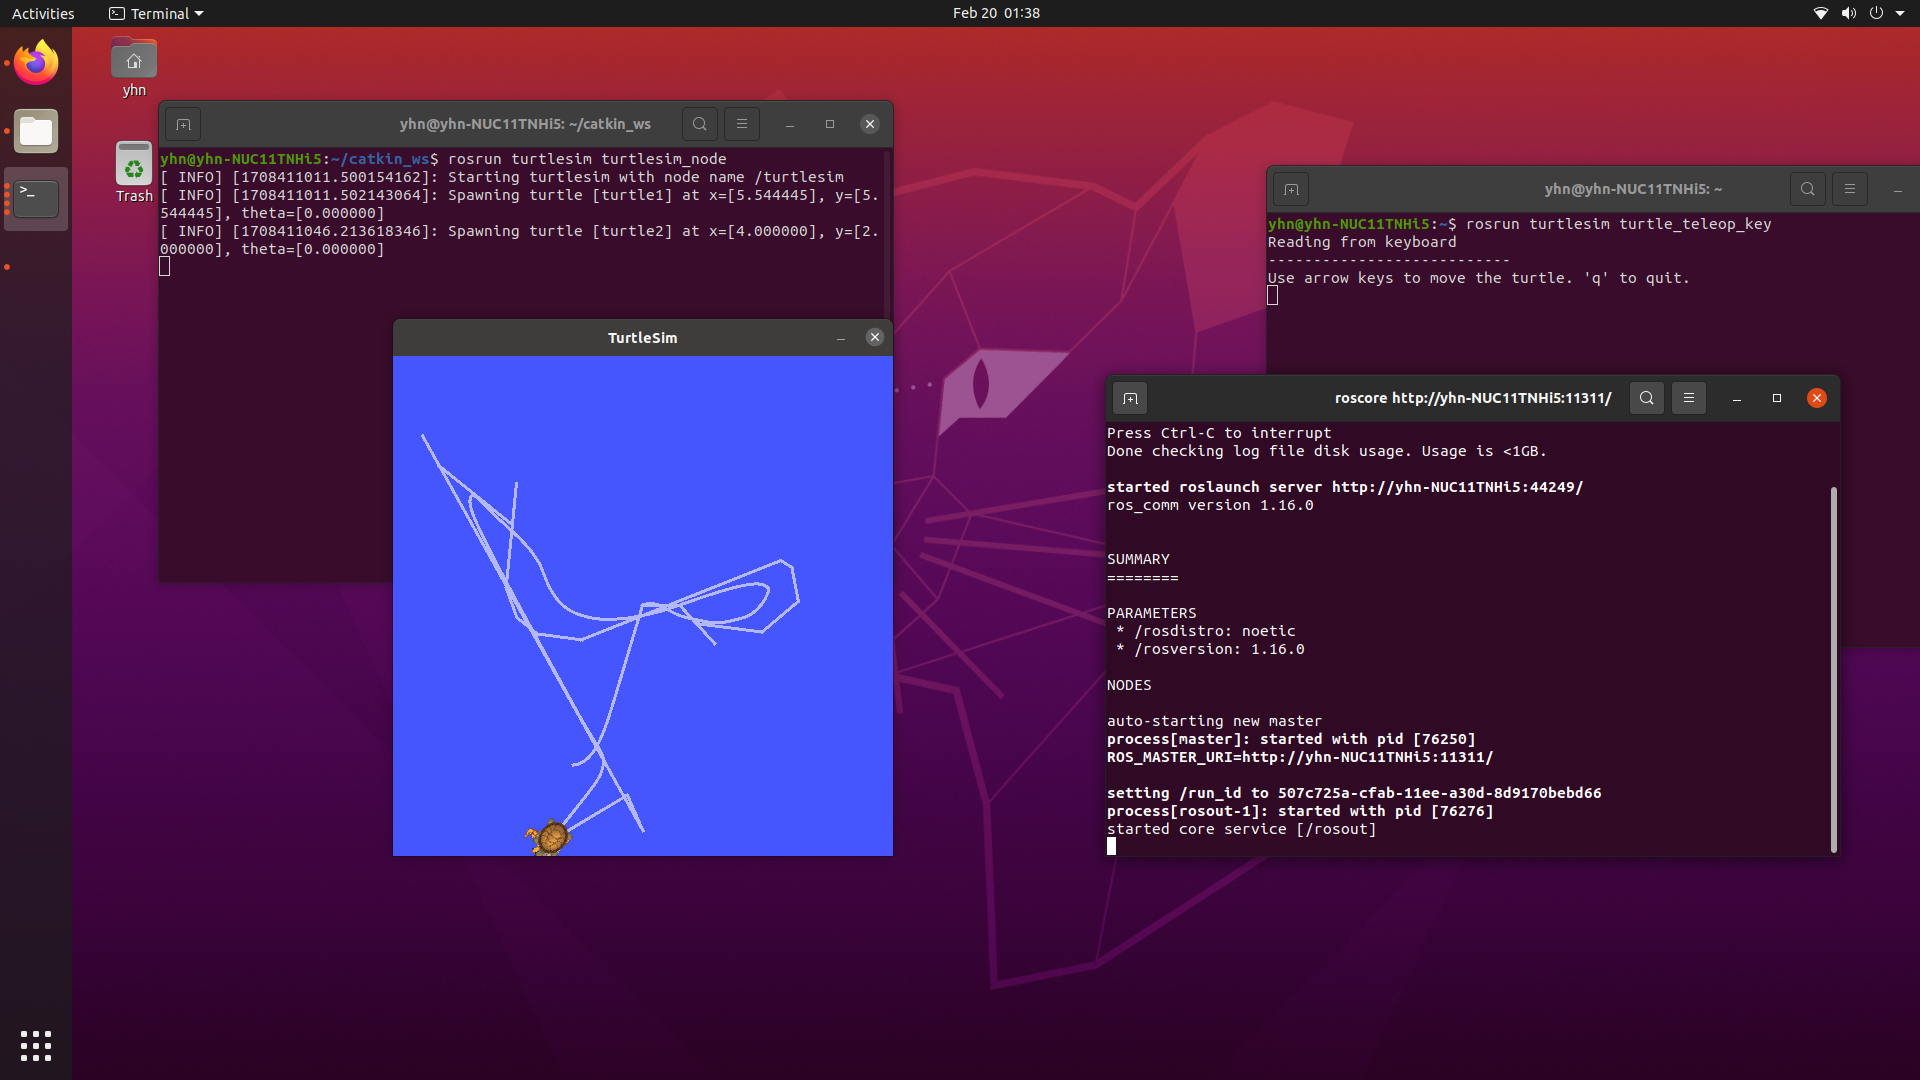
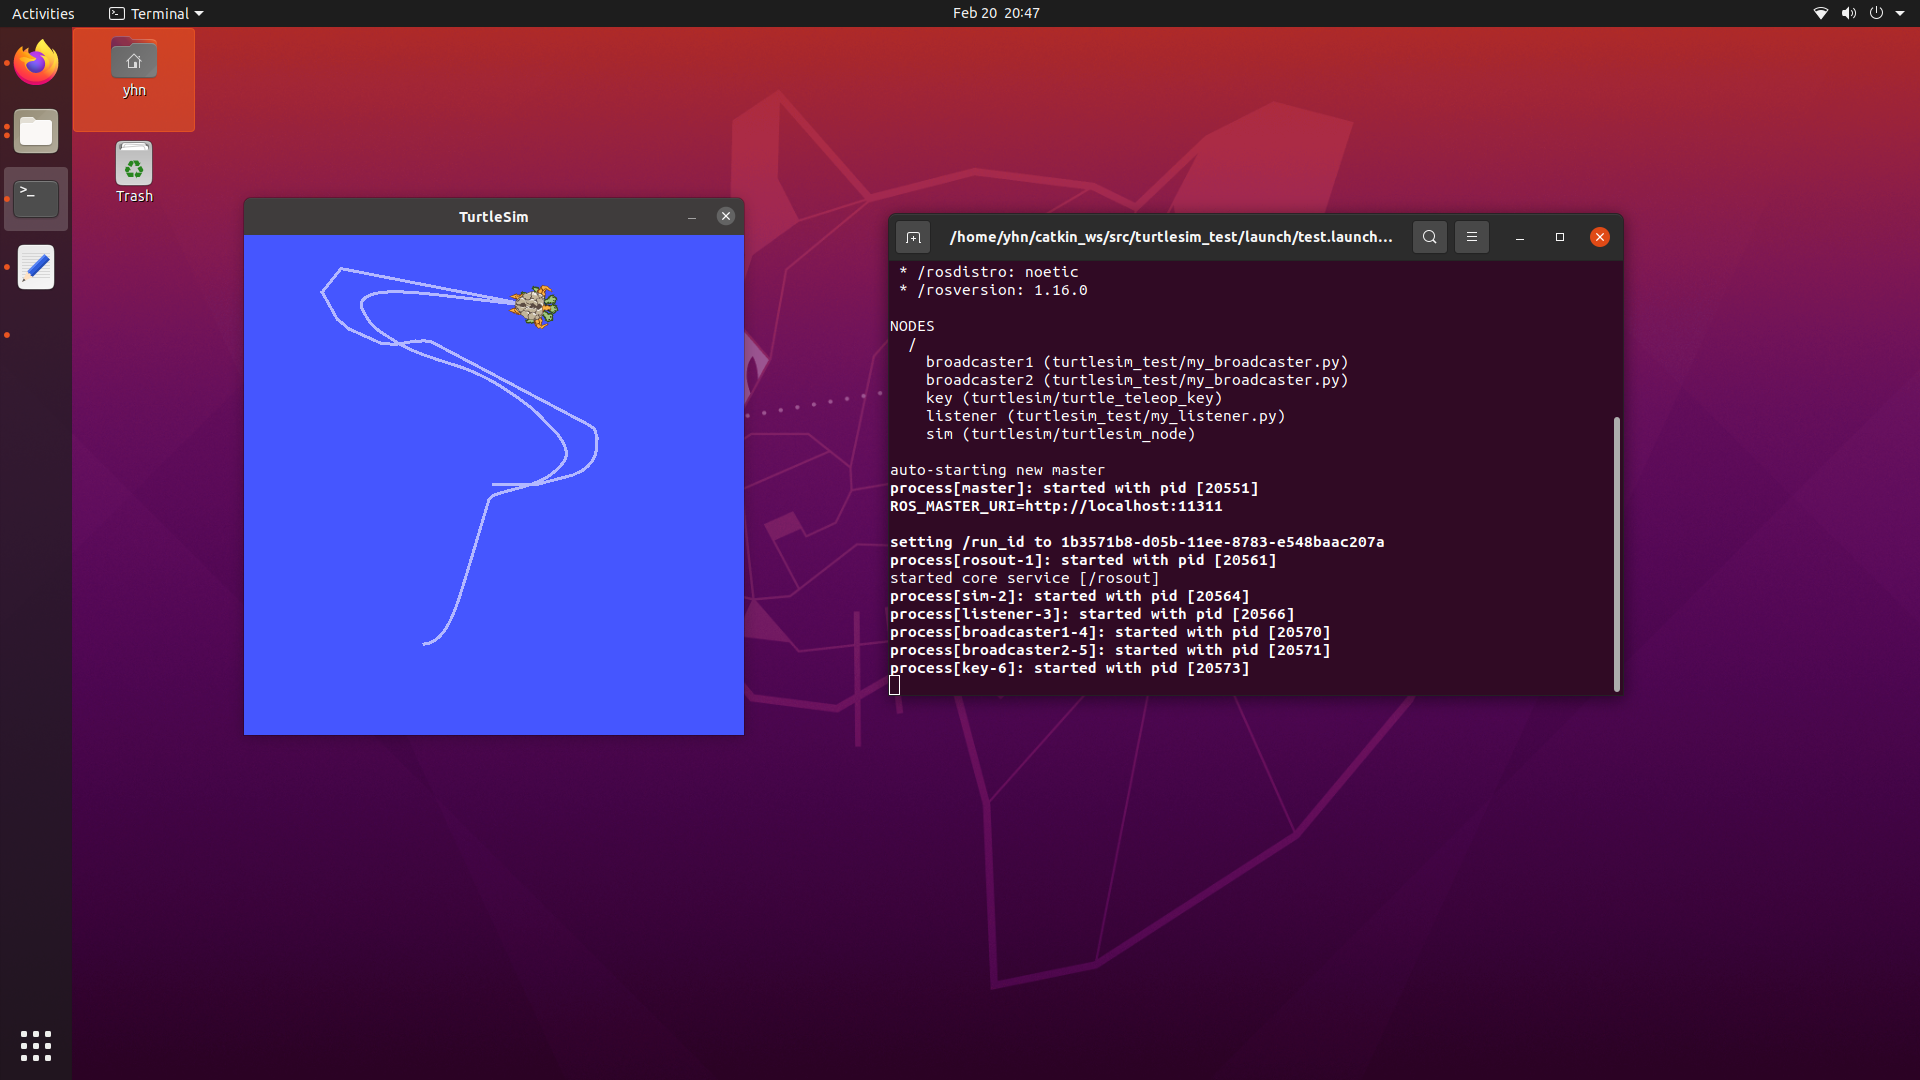
3

diff --git a/scripts/my_listener.py b/scripts/my_listener.py
@@ -5,30 +5,42 @@ import tf
 import geometry_msgs.msg
 import turtlesim.srv
 
+
 if __name__ == '__main__':
+    
+    # 初始化节点
     rospy.init_node('turtle_tf_listener')
-
-    listener = tf.TransformListener()
-
+    
+    # 在(4, 2, 0)创建第二只海龟
     rospy.wait_for_service('spawn')
     spawner = rospy.ServiceProxy('spawn', turtlesim.srv.Spawn)
     spawner(4, 2, 0, 'turtle2')
-
+    
+    # 发布海龟2速度
     turtle_vel = rospy.Publisher('turtle2/cmd_vel', geometry_msgs.msg.Twist,queue_size=1)
-
+    
+    # 创建tf监听器
+    listener = tf.TransformListener()
+    
+    # 循环频率10.0
     rate = rospy.Rate(10.0)
+    
     while not rospy.is_shutdown():
         try:
+            # 查询海龟1和海龟2之间的平移和旋转关系
             (trans,rot) = listener.lookupTransform('/turtle2', '/turtle1', rospy.Time(0))
         except (tf.LookupException, tf.ConnectivityException, tf.ExtrapolationException):
             continue
-
+        
+        # 角速度
         angular = 4 * math.atan2(trans[1], trans[0])
+        # 线速度
         linear = 0.5 * math.sqrt(trans[0] ** 2 + trans[1] ** 2)
+        
+        # 发布
         cmd = geometry_msgs.msg.Twist()
         cmd.linear.x = linear
         cmd.angular.z = angular
         turtle_vel.publish(cmd)
 
         rate.sleep()
-

diff --git a/scripts/my_broadcaster.py b/scripts/my_broadcaster.py
@@ -3,20 +3,34 @@ import rospy
 import tf
 import turtlesim.msg
 
+
 def handle_turtle_pose(msg, turtlename):
+    # msg：海龟的x、y、θ
+    
+    # 创建tf广播器
     br = tf.TransformBroadcaster()
+    
+    # 广播数据，平移：(x, y, z=0)、旋转(x=0, y=0, z)
     br.sendTransform((msg.x, msg.y, 0),
                      tf.transformations.quaternion_from_euler(0, 0, msg.theta),
                      rospy.Time.now(),
                      turtlename,
                      "world")
 
+
 if __name__ == '__main__':
+    
+    # 初始化节点
     rospy.init_node('turtle_tf_broadcaster')
+
+    # 获取海龟名
     turtlename = rospy.get_param('~turtle')
+    
+    # 订阅海龟位置 '海龟名/pose'
     rospy.Subscriber('/%s/pose' % turtlename,
                      turtlesim.msg.Pose,
                      handle_turtle_pose,
                      turtlename)
+    
+    # 阻塞等待callback
     rospy.spin()
-

diff --git a/README.md b/README.md
@@ -35,10 +35,5 @@ echo "source ~/catkin_ws/devel/setup.bash" >> ~/.bashrc
 #### 运行
 
 ```
-roscore
-rosrun turtlesim turtlesim_node
-rosrun my_pkg my_listener.py
-rosrun my_pkg my_broadcaster.py __name:=turtle1_tf_broadcaster /turtle1 _turtle:=turtle1
-rosrun my_pkg my_broadcaster.py __name:=turtle2_tf_broadcaster /turtle2 _turtle:=turtle2
-rosrun turtlesim turtle_teleop_key
+roslaunch turtlesim_test test.launch
 ```
